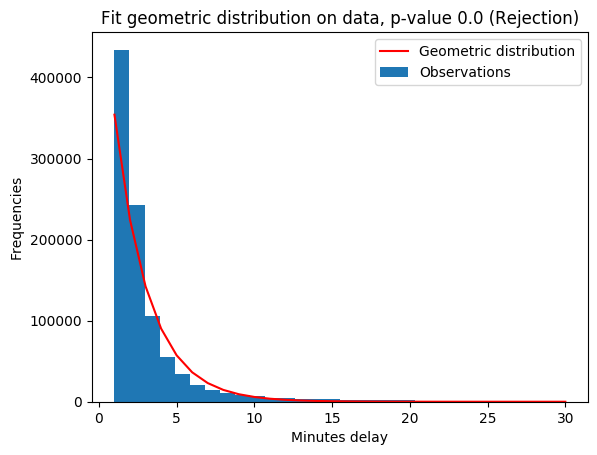
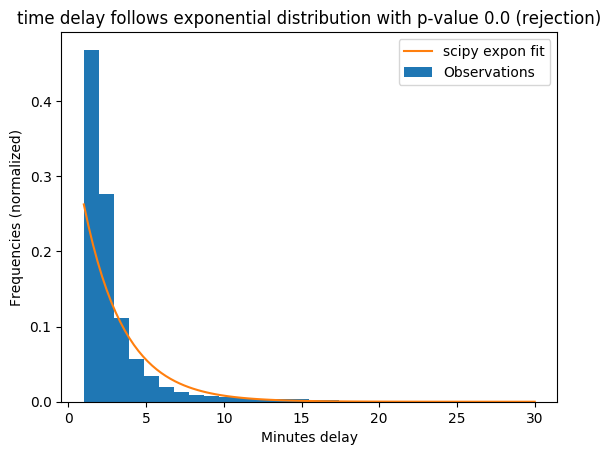
reverted discrete geometric to continuous exponential distribution

Changed region(s): [[0.0, 0.0, 0.995, 0.9846], [0.2714, 0.8923, 0.3015, 0.9231]]

diff --git a/experiments/delay_time_distribution.py b/experiments/delay_time_distribution.py
@@ -15,49 +15,33 @@ columns = [
 delayed_trains = {}
 delays = []
 
-with open("../data/vertragingen.csv") as vertrektijden:
+with open("../data/vertrektijden.csv") as vertrektijden:
     reader = csv.reader(vertrektijden, delimiter=",")
 
     for line in reader:
         delay = int(line[columns.index("delay")])
 
-        if delay <= 30:
+        if delay >= 1 and delay <= 30:
             delays.append(delay)
 
-delays = np.array(delays)
+scipy_params = st.expon.fit(delays, floc=0)
 
-p = 1 / float(np.mean(delays))
-k = np.arange(1, delays.max() + 1)
+p = st.kstest(delays, 'expon', scipy_params)[1]
+x = np.linspace(1, 30, 100)
 
 f = plt.figure()
 
-freqs, _, _ = plt.hist(delays, bins=30, label="Observations")
-plt.plot(k, st.geom.pmf(k, p) * len(delays), 'r', label="Geometric distribution")
-
-p_value = st.chisquare(freqs, st.geom.pmf(k, p) * len(delays))[1]
-
-plt.title("Fit geometric distribution on data, p-value {} (Rejection)".format(p_value))
-plt.ylabel("Frequencies")
+plt.hist(delays, bins=30, label="Observations", density=True)
+plt.plot(x, st.expon(*scipy_params).pdf(x), label="scipy expon fit")
+plt.ylabel("Frequencies (normalized)")
 plt.xlabel("Minutes delay")
+plt.title("time delay follows exponential distribution with p-value {} (rejection)".format(p))
 plt.legend()
 
-plt.show()
 f.savefig('../results/delay_time_distribution.png', bbox_inches='tight')
 
+plt.show()
 
-# print(freqs)
-# print(st.geom.pmf(k, p) * len(delays))
 
-# print()
-
-# plt.hist(delays, bins=30, label="Observations", density=True)
-# plt.plot(k, st.geom.pmf(k, p), '.r')
+# plt.plot(list(data.keys()), list(data.values()))
 # plt.show()
-# plt.plot(x, st.expon(*scipy_params).pdf(x), label="scipy expon fit")
-# plt.title("p-value {} (rejection), location: {}, scale: {}".format(p, *scipy_params))
-# plt.legend()
-# # plt.show()
-# plt.savefig('../results/delay_time_distribution.png', bbox_inches='tight')
-#
-# # plt.plot(list(data.keys()), list(data.values()))
-# # plt.show()
